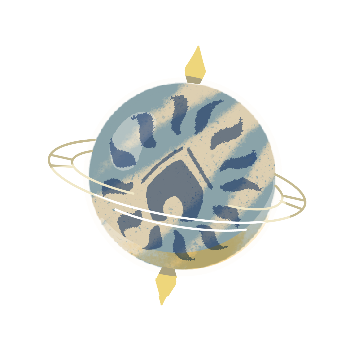
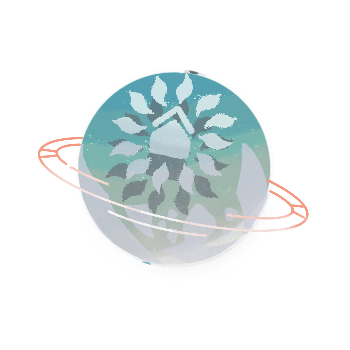
:construction: 添加图片，恢复表单动画方式

Changed region(s): [[0.0857, 0.1143, 0.8857, 0.8857]]

diff --git a/src/pages/application/index.tsx b/src/pages/application/index.tsx
@@ -5,7 +5,7 @@ import './style.css';
 
 const { useState, useEffect } = React;
 
-const ncuhome = require('../../assets/png/application_ncuhome.png');
+const ncuhome = require('../../assets/png/ncuhome_planet.png');
 const arrowUp = require('../../assets/svg/form_arrow_up.svg');
 
 let formRef:any;
@@ -20,7 +20,7 @@ export default function Application(props: any) {
     classname: "",
     introduce:""
   });
-  // const [isUpper, setIsUpper] = useState(true);
+  const [isUpper, setIsUpper] = useState(true);
   const [ncuhomeStyle, setNcuhomeStyle] = useState({});
 
   const handleChange = (event:any):void => {
@@ -91,33 +91,31 @@ export default function Application(props: any) {
     },0);
     disapearAnime.pause();
     const handleScroll = (e:any) => {
-      const halfCircleTop = 200 + window.innerHeight * 0.05;
+      const halfCircleTop = 100 + window.innerHeight * 0.05;
       const scrollTop = document.documentElement.scrollTop || document.body.scrollTop;
-      // if ((scrollTop > halfCircleTop) && isUpper) {
-      //   setIsUpper(false);
-      //   if (planetAnime.reversed) {
-      //     planetAnime.reverse();
-      //   }
-      //   planetAnime.play();
-      //   disapearAnime.play();
-      // }
-      // else if ((scrollTop < halfCircleTop) && !isUpper) {
-      //   setIsUpper(true);
-      //   planetAnime.reverse();
-      //   planetAnime.seek(planetAnime.duration);
-      //   planetAnime.play();
-      //   disapearAnime.reverse();
-      //   disapearAnime.seek(disapearAnime.duration);
-      //   disapearAnime.play();
-      // }
-      planetAnime.seek((scrollTop/halfCircleTop)*planetAnime.duration);
-      disapearAnime.seek((scrollTop/halfCircleTop)*disapearAnime.duration);
+      if ((scrollTop > halfCircleTop) && isUpper) {
+        setIsUpper(false);
+        if (planetAnime.reversed) {
+          planetAnime.reverse();
+        }
+        planetAnime.play();
+        disapearAnime.play();
+      }
+      else if ((scrollTop < halfCircleTop) && !isUpper) {
+        setIsUpper(true);
+        planetAnime.reverse();
+        planetAnime.seek(planetAnime.duration);
+        planetAnime.play();
+        disapearAnime.reverse();
+        disapearAnime.seek(disapearAnime.duration);
+        disapearAnime.play();
+      }
     };
     window.addEventListener("scroll",handleScroll);
     return function cleanup() {
       window.removeEventListener("scroll",handleScroll);
     };
-  },[]);
+  },[ isUpper ]);
 
   return (
     <div className="application-container">
